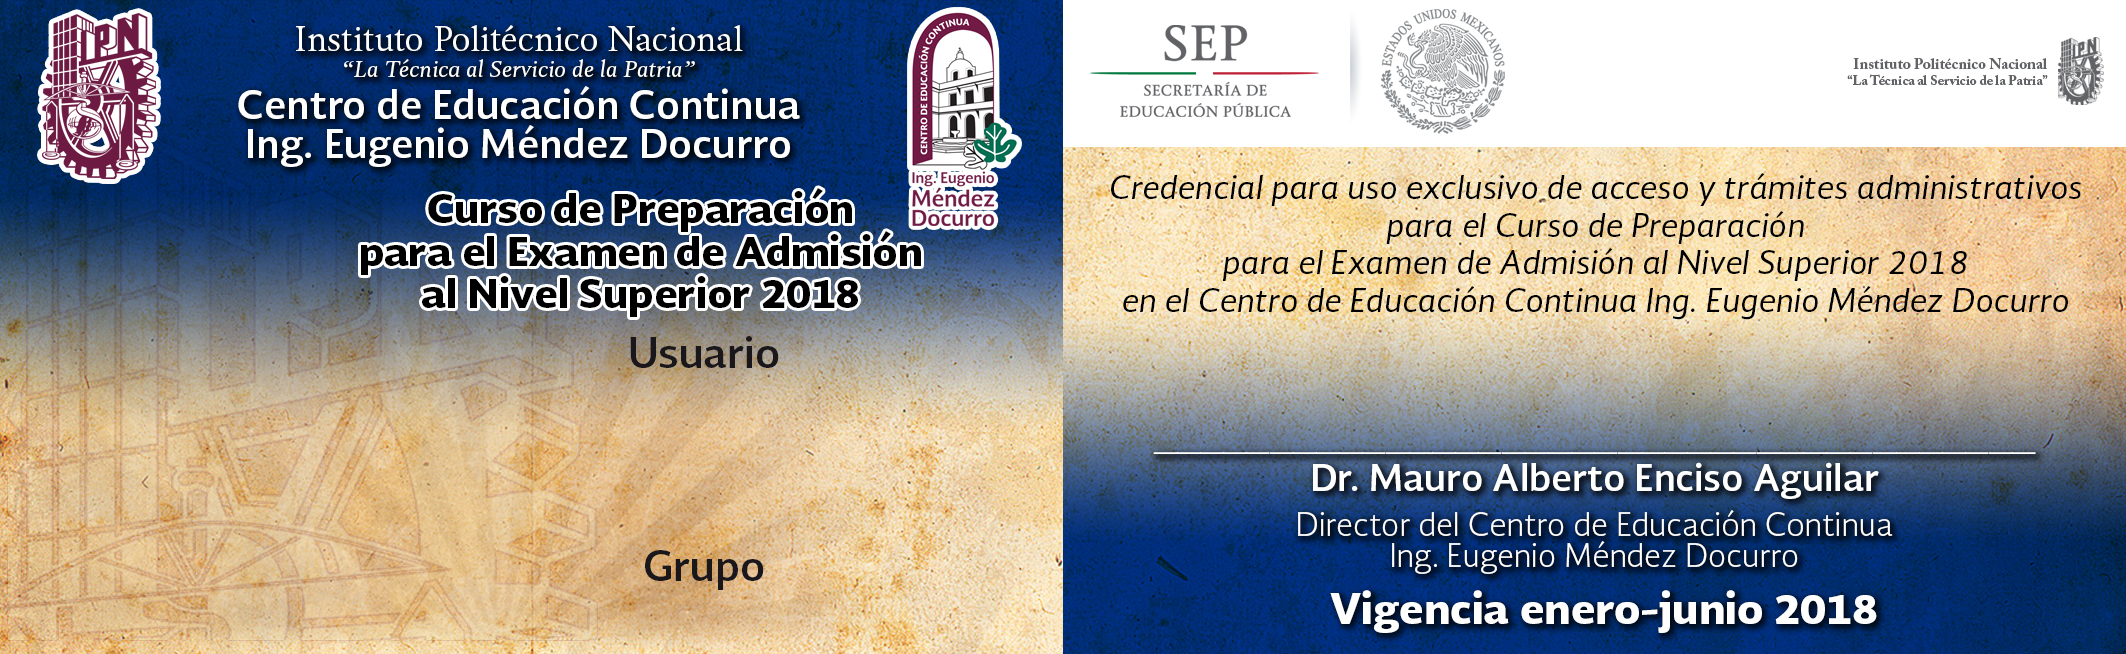
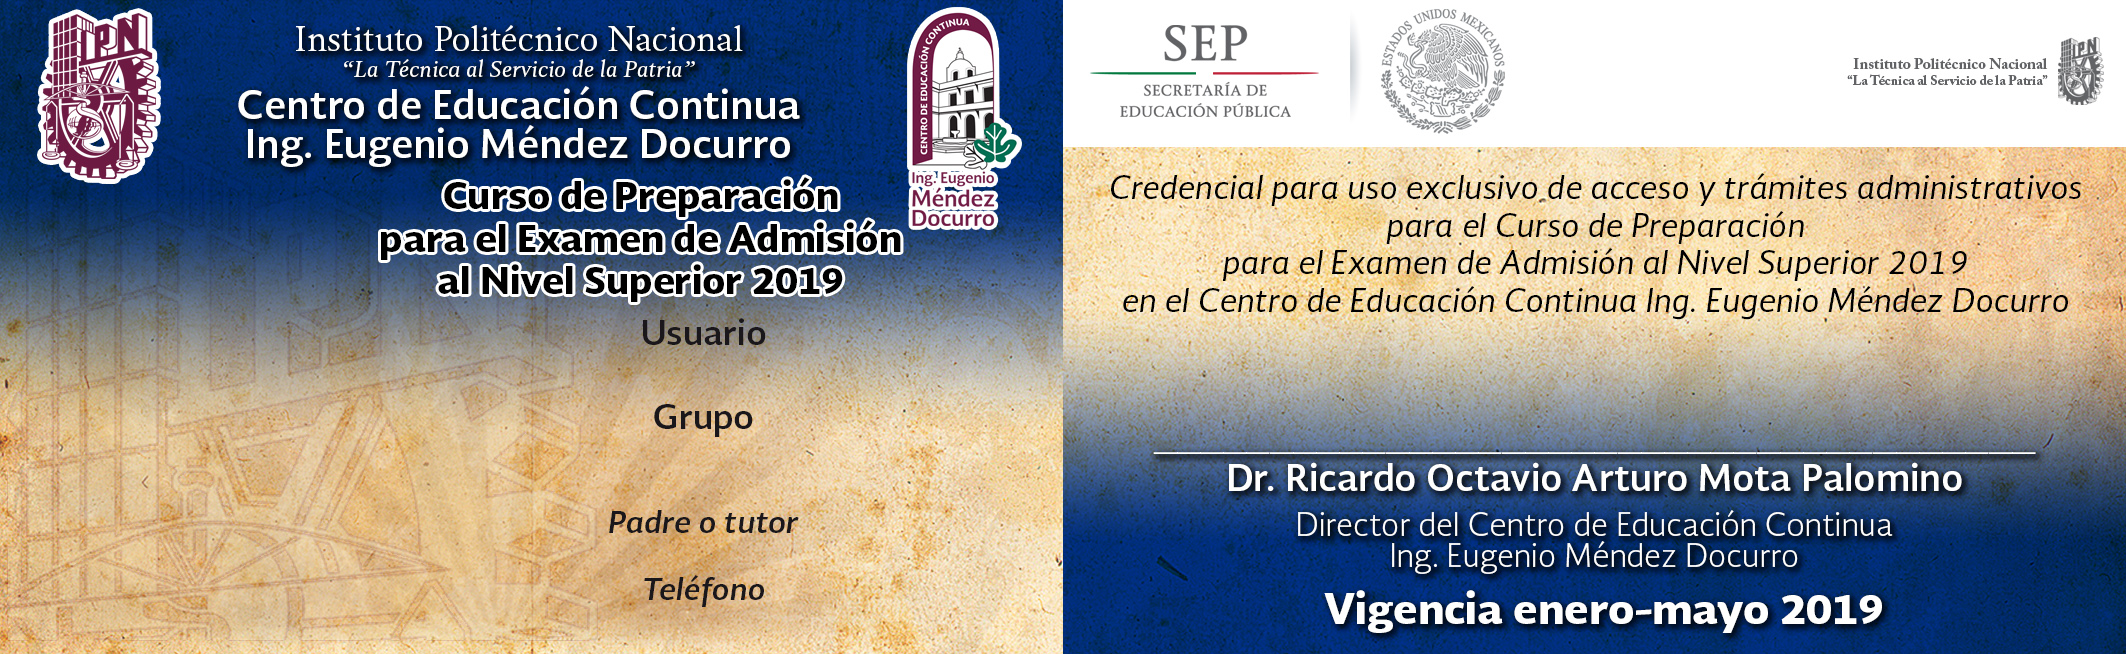
Credenciales para superior arregladas

diff --git a/app/controllers/unitarios_controller.rb b/app/controllers/unitarios_controller.rb
@@ -184,7 +184,7 @@ class UnitariosController < ApplicationController
   end
 
   def imprimir_credenciales_superior
-    @unitarios = Unitario.where(documentos_validados: true).includes(:grupos_unitario).where(:grupos_unitarios => { nombre: "Curso de preparación para el examen de admisión al Nivel Superior" } ).order(:paterno)
+    @unitarios = Unitario.where(documentos_validados: true).includes(:grupos_unitario).where(:grupos_unitarios => { nombre: "Curso de Preparación para el Examen de Admisión al Nivel Superior 2019" } ).order(:paterno)
     @multiplo = 4
     respond_to do |format|
       format.html
